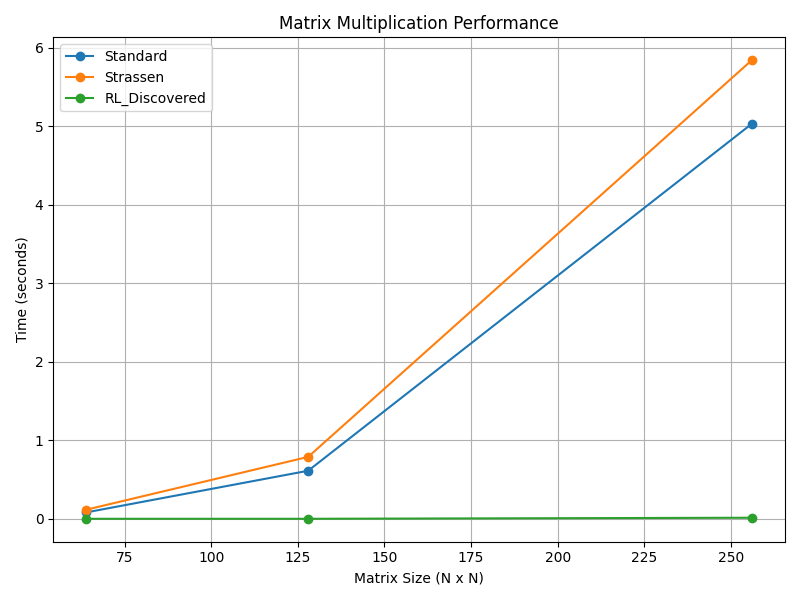
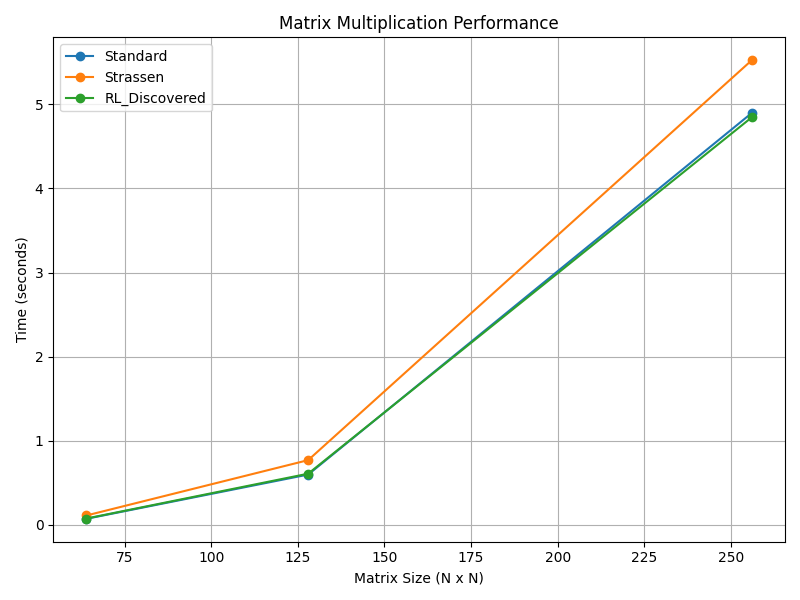
New Performance

diff --git a/src/rl_framework/rl_generated_ops.py b/src/rl_framework/rl_generated_ops.py
@@ -1,6 +1,93 @@
 import numpy as np
+import sys
+import os
 
-# Dummy implementation: replace with your actual RL-discovered logic
-def apply_discovered_algorithm(A: np.ndarray, B: np.ndarray) -> np.ndarray:
-    # For now, just return standard multiplication
-    return np.matmul(A, B)
+sys.path.append(os.path.abspath(os.path.join(os.path.dirname(__file__), "../..")))
+from src.algorithms.standard import standard_multiplication
+from src.algorithms.strassen import strassen_multiplication
+
+def apply_discovered_algorithm(A: np.ndarray, B: np.ndarray, action_history: list = None) -> np.ndarray:
+    """
+    Applies a matrix multiplication algorithm "discovered" by the RL agent
+    based on the sequence of actions in the action history.
+    """
+    if action_history is None or not action_history:
+        return standard_multiplication(A, B)  # Default
+
+    current_result = None
+    matrix_x = A
+    matrix_y = B
+
+    for action in action_history:
+        print(f"Applying historical action: {action}")  # Debugging
+
+        if action == 0:
+            current_result = standard_multiplication(matrix_x, matrix_y)
+        elif action == 1:
+            # For simplicity, we'll just apply Strassen to the original matrices
+            # in this example. A more sophisticated approach might involve
+            # applying it to sub-blocks if the agent learned a recursive strategy.
+            current_result = strassen_multiplication(matrix_x, matrix_y)
+        elif action == 2:
+            current_result = standard_multiplication(matrix_x, matrix_y) # Placeholder for Coppersmith
+        elif action == 3:
+            # This action ideally shouldn't appear in the history
+            # as it triggers this discovered algorithm. For now, default.
+            return standard_multiplication(A, B)
+
+        if current_result is not None:
+            # For a sequence, we might update one of the matrices for the next step.
+            # This is a very basic example and might not be semantically meaningful
+            # for matrix multiplication. A more advanced approach would be needed
+            # to learn meaningful sequences of operations.
+            matrix_x = current_result
+            matrix_y = B  # Or keep B the same, or alternate.
+
+    return current_result if current_result is not None else standard_multiplication(A, B)
+
+def strassen_multiply(A, B):
+    # Your Strassen implementation (ensure it's correct and handles base cases)
+    if A.shape == (2, 2):
+        a, b, c, d = A.flatten()
+        e, f, g, h = B.flatten()
+        p1 = a * (f - h)
+        p2 = (a + b) * h
+        p3 = (c + d) * e
+        p4 = d * (g - e)
+        p5 = (a + d) * (e + h)
+        p6 = (b - d) * (g + h)
+        p7 = (a - c) * (e + f)
+        return np.array([[p5 + p4 - p2 + p6, p1 + p2], [p3 + p4, p5 + p1 - p3 - p7]]).reshape(A.shape)
+    else:
+        n = A.shape[0]
+        if n % 2 != 0:
+            padding = ((0, 1), (0, 1))
+            A = np.pad(A, padding, mode='constant')
+            B = np.pad(B, padding, mode='constant')
+            n += 1
+        half = n // 2
+        a = A[:half, :half]
+        b = A[:half, half:]
+        c = A[half:, :half]
+        d = A[half:, half:]
+        e = B[:half, :half]
+        f = B[:half, half:]
+        g = B[half:, :half]
+        h = B[half:, half:]
+        p1 = strassen_multiply(a, f - h)
+        p2 = strassen_multiply(a + b, h)
+        p3 = strassen_multiply(c + d, e)
+        p4 = strassen_multiply(d, g - e)
+        p5 = strassen_multiply(a + d, e + h)
+        p6 = strassen_multiply(b - d, g + h)
+        p7 = strassen_multiply(a - c, e + f)
+        C = np.zeros((n, n), dtype=A.dtype)
+        C[:half, :half] = p5 + p4 - p2 + p6
+        C[:half, half:] = p1 + p2
+        C[half:, :half] = p3 + p4
+        C[half:, half:] = p5 + p1 - p3 - p7
+        return C[:A.shape[0], :A.shape[1]]
+
+def coppersmith_winograd(A, B):
+    # Placeholder - replace with a real implementation if available
+    return standard_multiplication(A, B)

diff --git a/src/rl_framework/matrix_rl_env.py b/src/rl_framework/matrix_rl_env.py
@@ -10,6 +10,7 @@ sys.path.append(os.path.abspath(os.path.join(os.path.dirname(__file__), "../..")
 from src.algorithms.standard import standard_multiplication
 from src.algorithms.strassen import strassen_multiplication
 from src.algorithms.coppersmith import coppersmith_winograd
+from src.rl_framework.rl_generated_ops import apply_discovered_algorithm
 
 class MatrixMultiplicationEnv(gym.Env):
     """
@@ -20,7 +21,7 @@ class MatrixMultiplicationEnv(gym.Env):
         super(MatrixMultiplicationEnv, self).__init__()
 
         self.matrix_size = matrix_size
-        self.action_space = spaces.Discrete(3)  # 0 = Standard, 1 = Strassen, 2 = Coppersmith-Winograd
+        self.action_space = spaces.Discrete(4)  # 0 = Standard, 1 = Strassen, 2 = Coppersmith-Winograd, 3= RL-discovered
         self.observation_space = spaces.Box(low=-100, high=100, shape=(2 * matrix_size[0] * matrix_size[1],), dtype=np.float32)
 
         self.matrix_a = None
@@ -54,6 +55,9 @@ class MatrixMultiplicationEnv(gym.Env):
         elif action == 2:
             self.current_result = self.coppersmith_winograd_multiplication()
             print("Using Coppersmith-Winograd multiplication.")
+        elif action == 3:
+            self.current_result = apply_discovered_algorithm(self.matrix_a, self.matrix_b)
+            print("Using RL-discovered algorithm.")
         else:
             raise ValueError(f"Invalid action: {action}")  # Better error message
 
@@ -77,7 +81,7 @@ class MatrixMultiplicationEnv(gym.Env):
             self.action_history = state.get("action_history", [])
             initial_state = np.concatenate((self.matrix_a.flatten(), self.matrix_b.flatten())).astype(np.float32)
             info = {
-                "available_actions": [0, 1, 2],
+                "available_actions": [0, 1, 2, 3],  # Include the RL Discovered action
                 "action_history": self.action_history
             }
             return initial_state, info
@@ -119,6 +123,17 @@ class MatrixMultiplicationEnv(gym.Env):
             return n ** 2.8
         elif action == 2:
             return n ** 2.37
+        elif action == 3:
+            base_cost = 0.1 * (n ** 2) # Example: a cost proportional to matrix size squared
+            cost = 0
+            for historical_action in self.action_history:
+                if historical_action == 0:
+                    cost += n ** 3
+                elif historical_action == 1:
+                    cost += n ** 2.8
+                elif historical_action == 2:
+                    cost += n ** 2.37
+            return cost + base_cost
         return float("inf")
 
 

diff --git a/src/rl_framework/rl_agent.py b/src/rl_framework/rl_agent.py
@@ -4,6 +4,7 @@ import torch.nn as nn
 import torch.optim as optim
 from mcts import MCTS
 from matrix_rl_env import MatrixMultiplicationEnv
+import time
 
 class PolicyNetwork(nn.Module):
     """
@@ -66,20 +67,35 @@ class RLAgent:
         Evaluate the agent's average reward over a number of episodes.
         """
         total_reward = 0
+        total_times_rl = [] # To store execution times for RL-chosen algorithm
         for _ in range(episodes):
-            state, info = self.env.reset() # Unpack the tuple
+            state, info = self.env.reset()
             done = False
             episode_reward = 0
+            episode_times_rl = []
             while not done:
-                action = self.select_action((state, info)) # Pass the full state tuple
+                action = self.select_action((state, info))
+                print(f"RL Agent chose action: {action}") # Debug print
+
+                start_time = time.time()
                 next_state, reward, done, next_info = self.env.step(action)
+                end_time = time.time()
+                execution_time = end_time - start_time
+                episode_times_rl.append(execution_time)
+
                 episode_reward += reward
                 state = next_state
                 info = next_info
             total_reward += episode_reward
+            if episode_times_rl:
+                total_times_rl.append(np.mean(episode_times_rl)) # Average time per episode
+
         avg_reward = total_reward / episodes
         print(f"Average reward over {episodes} episodes: {avg_reward:.2f}")
-        return avg_reward
+        if total_times_rl:
+            print(f"Average execution time (RL): {np.mean(total_times_rl):.4f} seconds") # Print average time
+
+        return avg_reward, total_times_rl # Return the times for plotting
 
     def train(self, episodes=1000, gamma=0.99):
         """
@@ -95,7 +111,7 @@ class RLAgent:
                 next_state, reward, done, next_info = self.env.step(action)
                 trajectory.append((state, action, reward))
                 state = next_state
-                info = next_info
+                info = next_info  # Update info here!
 
             # Compute discounted rewards
             G = 0
